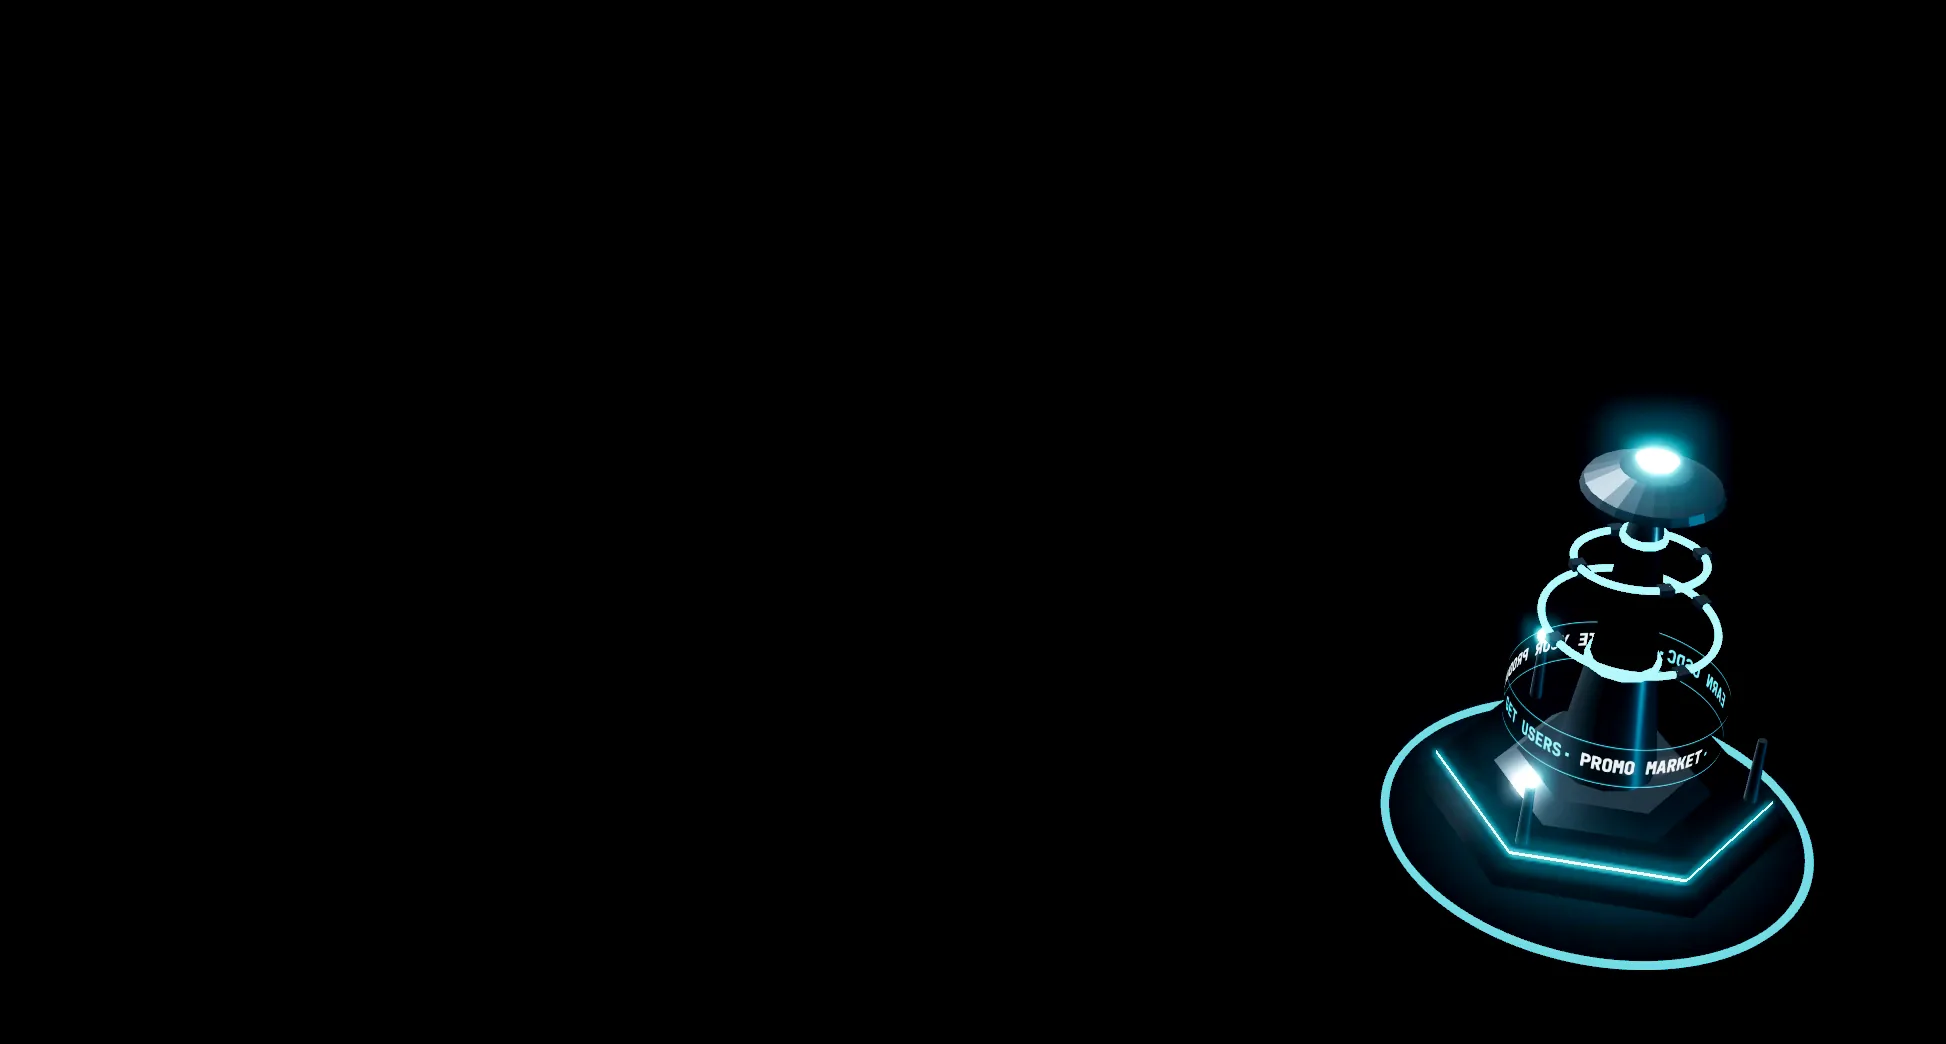
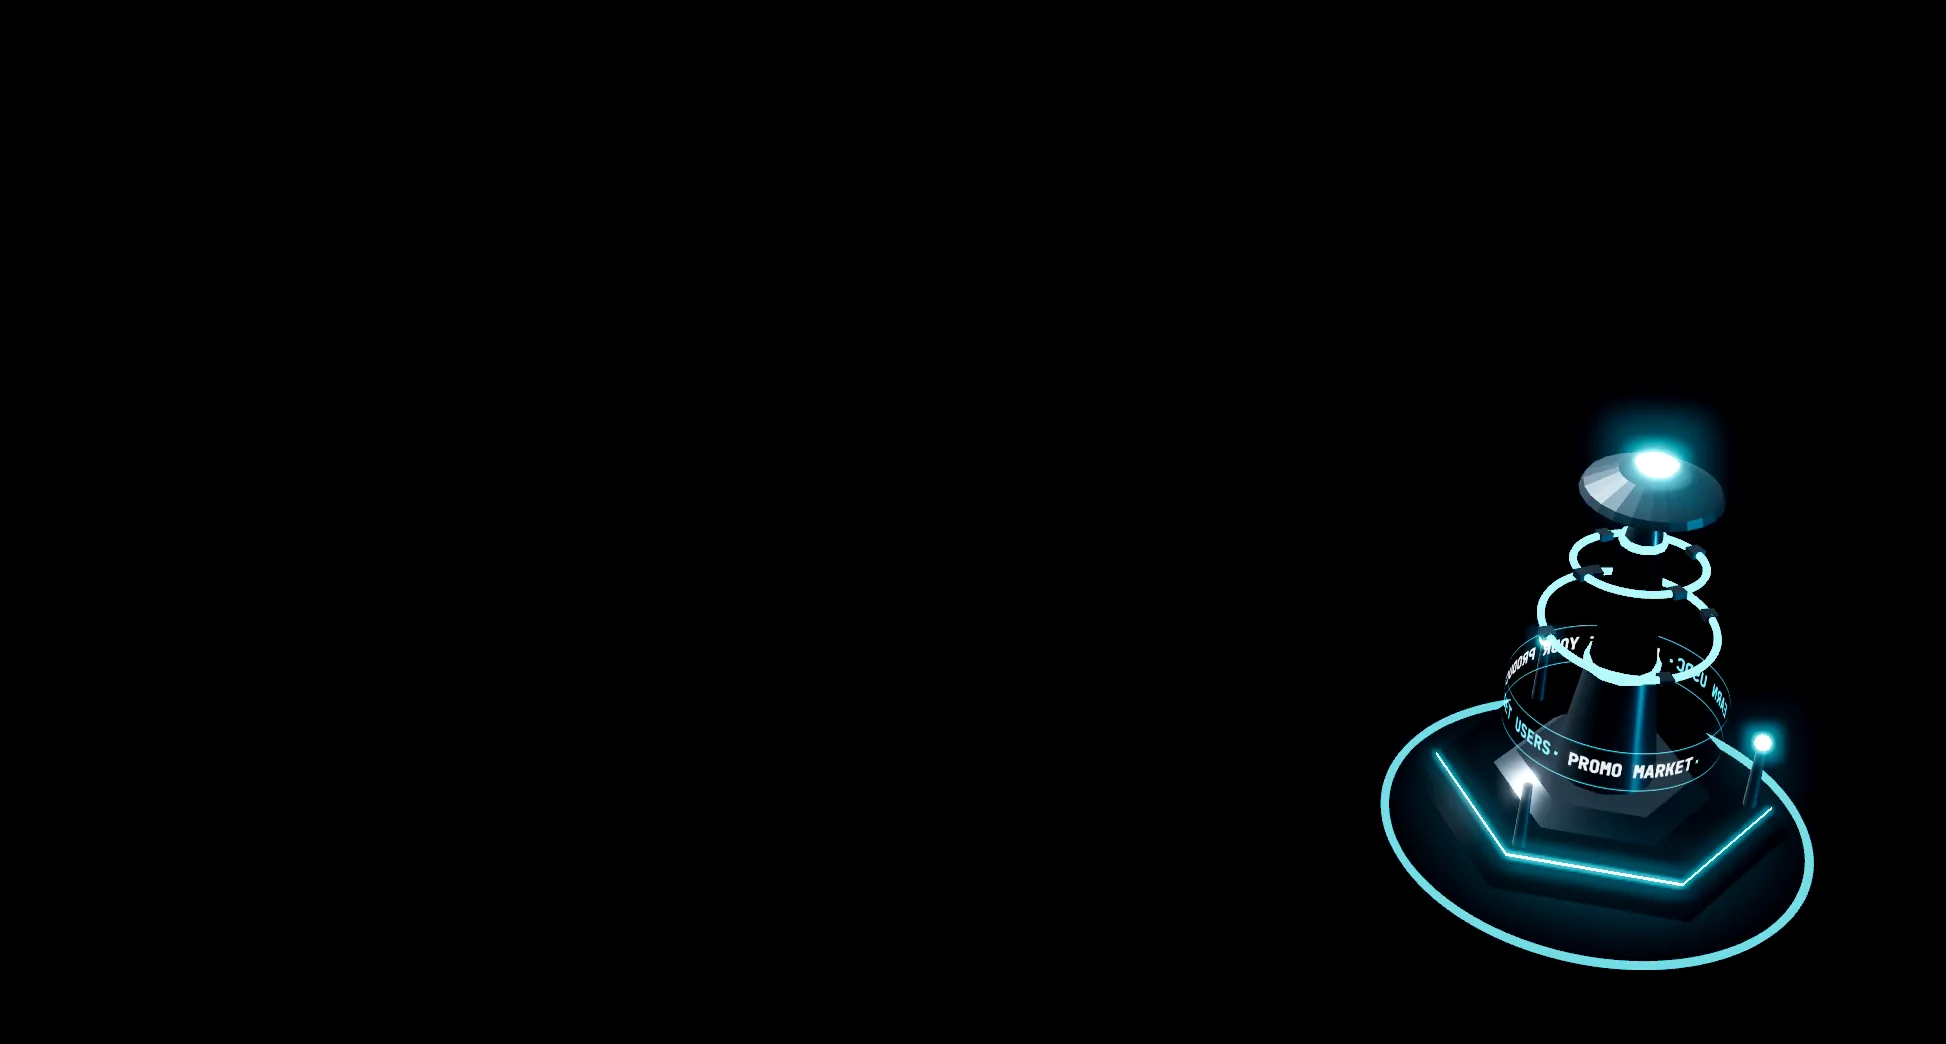
Cymetica Quest steps page: step 3's orbit clip without its stall. Counted from the WebM's own block times, the orbit (the page's first recording) stood still for 0.56 s at 0.35 s, twice, and 0.46 s after four seconds' rest; the building (the second recording) never. record.py market now throws away 
Effort: xhigh

Changed region(s): [[0.74, 0.3985, 0.925, 0.8582]]

diff --git a/outbox/quest-steps/record.py b/outbox/quest-steps/record.py
@@ -333,7 +333,10 @@ def market(b, seconds=12):
           {k: pct(v) for k, v in page.evaluate(MARKET_WHERE).items()}, '(% of the clip)')
     by = "(id) => CO.uv.items.find(x => x.c.id === id).plot.root"
     page.evaluate(f"() => {{ ({by})('ad-promo').visible = false; }}")
+    # the page's first recording stands still for half a second a third of a second in (0.56, 0.56 and, after four
+    # seconds' rest, 0.46 s; the second recording never did): a second's recording first, thrown away
     time.sleep(1)
+    page.evaluate(RECORD, [sel, 1000, 4_000_000])
     record(page, sel, seconds, 'market-orbit', bps=16_000_000, crop=box)
     page.evaluate(f"() => {{ const r = {by}; ['ad-farmer', 'ad-gem', 'ad-casino'].forEach(id => {{ r(id).visible = false; }}); r('ad-promo').visible = true; }}")
     page.evaluate(capture.HIDE_SKY)
